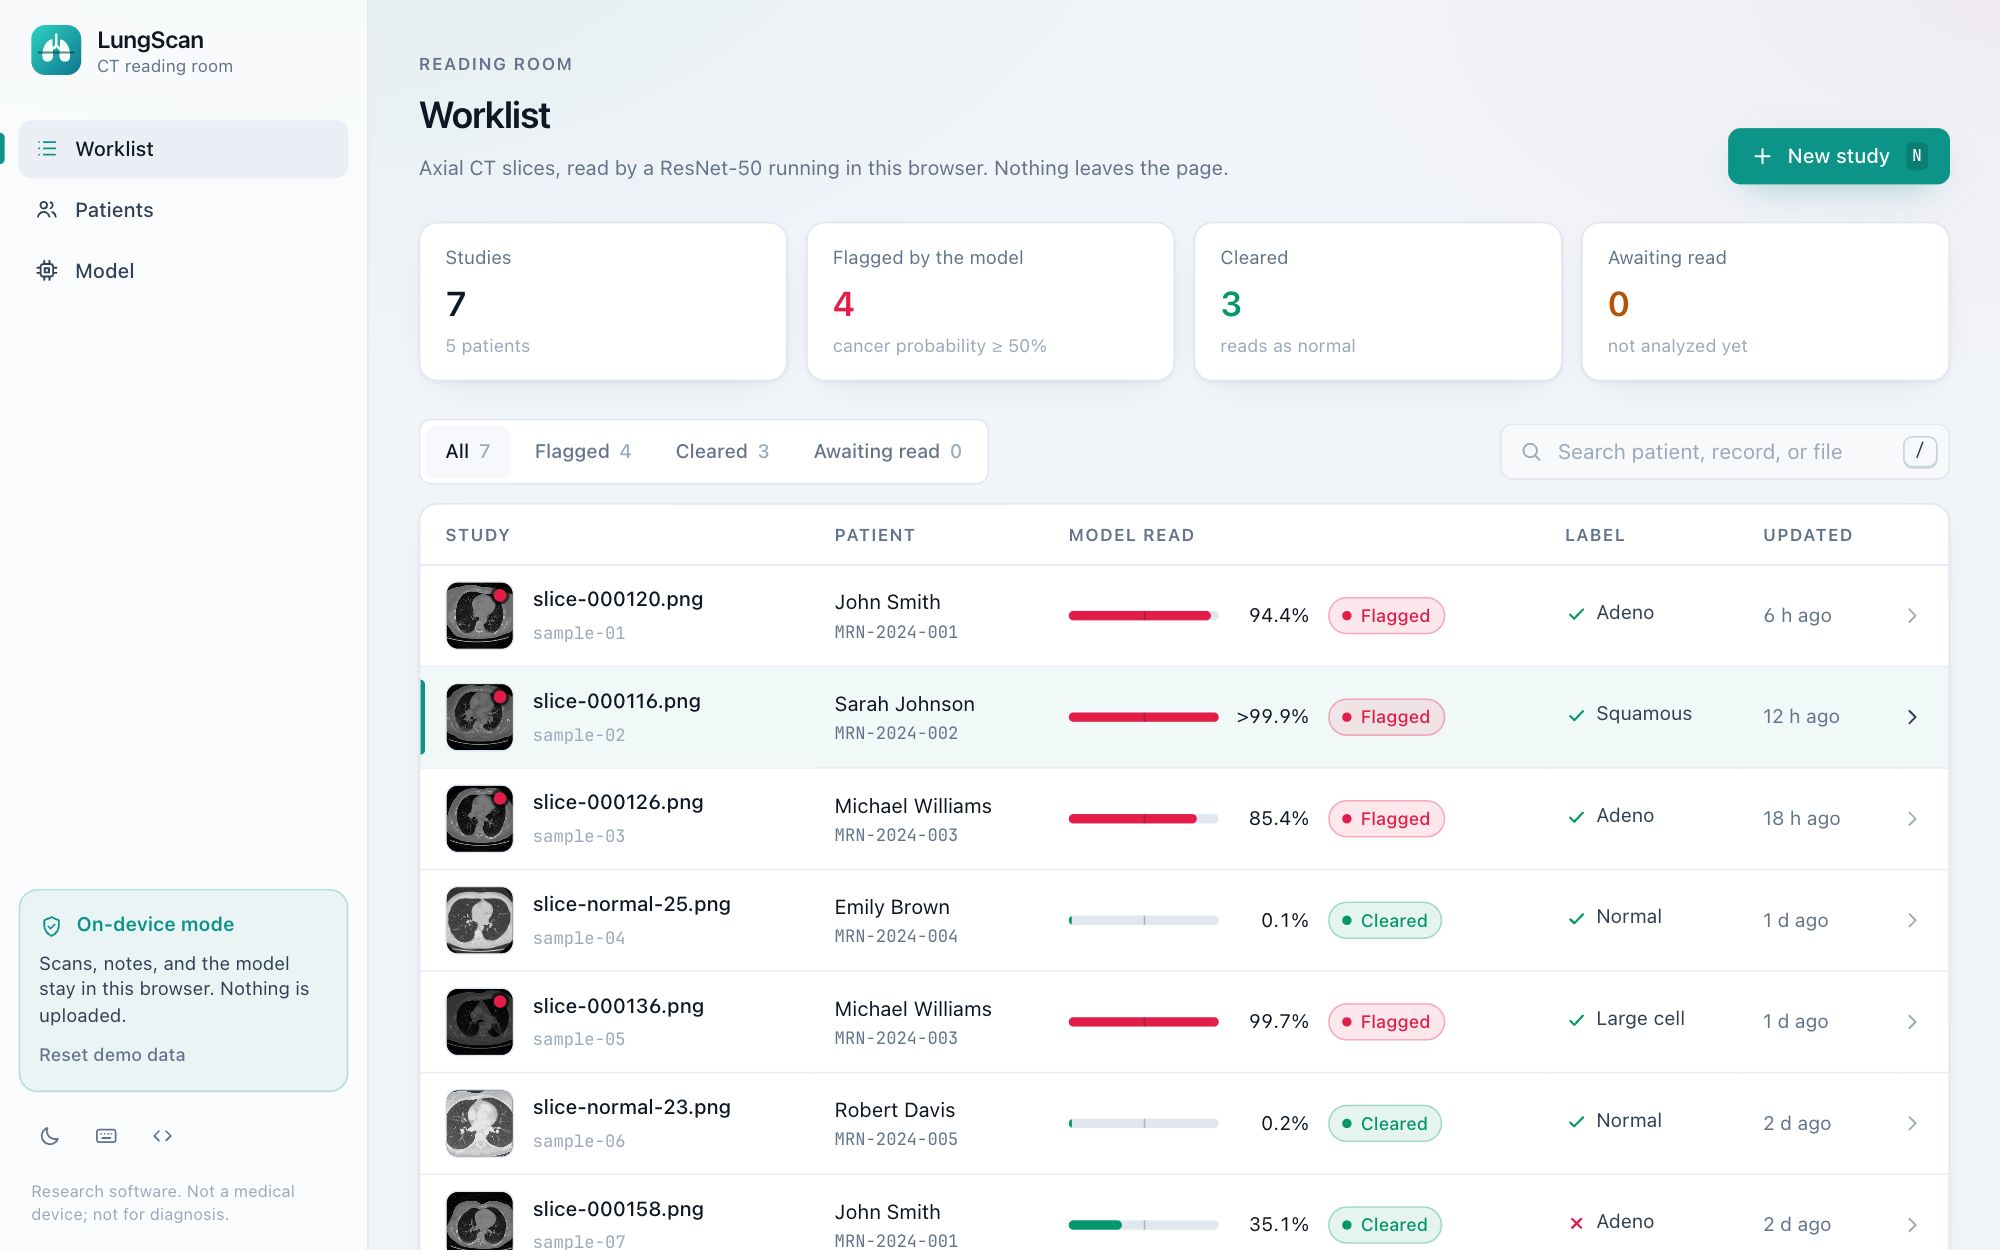
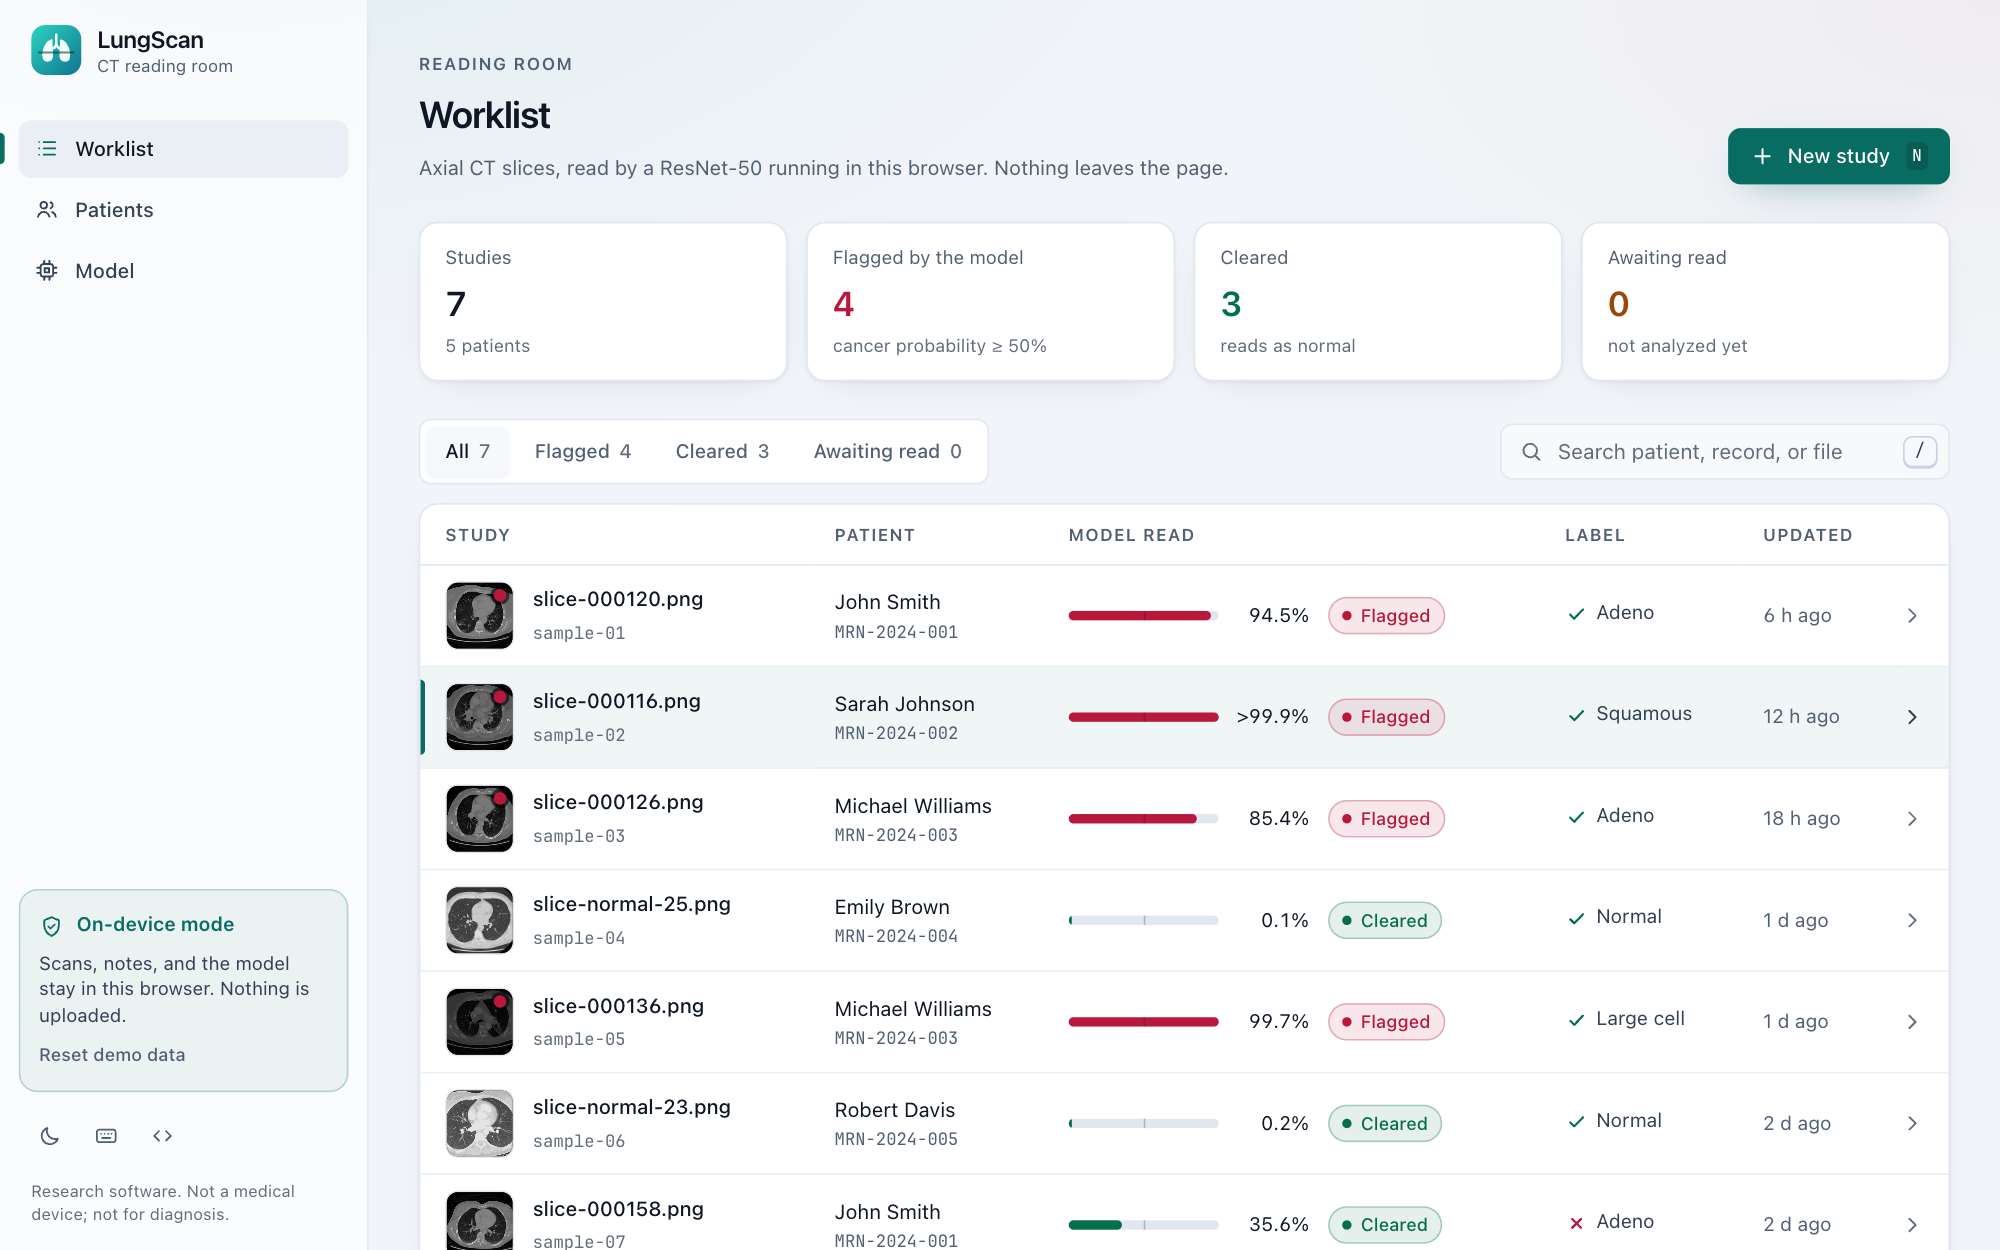
docs: Retake the README's images for the int8 model and the new colors
The screenshots, the demo, and the link preview come from the current
static site (scripts/capture.mjs): the sample read in the page is now
94.5%, the model page shows the int8 check, and the light theme has its
darker accents.

diff --git a/README.md b/README.md
@@ -1,5 +1,5 @@
 <p align="center">
-  <a href="https://adriantrill.github.io/LungScan/"><img src="frontend/public/social.png" width="857" alt="LungScan: lung CT reading on your own device. A CT slice with its Grad-CAM heat map inside a scanner ring, read in the browser on WebGPU, with a cancer probability of 94.4%"></a>
+  <a href="https://adriantrill.github.io/LungScan/"><img src="frontend/public/social.png" width="857" alt="LungScan: lung CT reading on your own device. A CT slice with its Grad-CAM heat map inside a scanner ring, read in the browser on WebGPU, with a cancer probability of 94.5%"></a>
 </p>
 
 <p align="center">
@@ -52,7 +52,7 @@ To run it yourself, with the FastAPI backend:
 ## The reading room
 
 <p align="center">
-  <img src="docs/assets/reading-room.png" width="857" alt="The reading view in the dark theme: a CT slice with the Grad-CAM heat map and one region in the viewer, PACS-style corner annotations, and the model's read beside it: a cancer probability of 94.4%, flagged, read in the browser on WebGPU, the dataset label it agrees with, the class probabilities, and the region">
+  <img src="docs/assets/reading-room.png" width="857" alt="The reading view in the dark theme: a CT slice with the Grad-CAM heat map and one region in the viewer, PACS-style corner annotations, and the model's read beside it: a cancer probability of 94.5%, flagged, read in the browser on WebGPU, the dataset label it agrees with, the class probabilities, and the region">
 </p>
 
 The reading view puts the slice beside the model's read, with the previous and next study a key away (<kbd>[</kbd> <kbd>]</kbd>).
